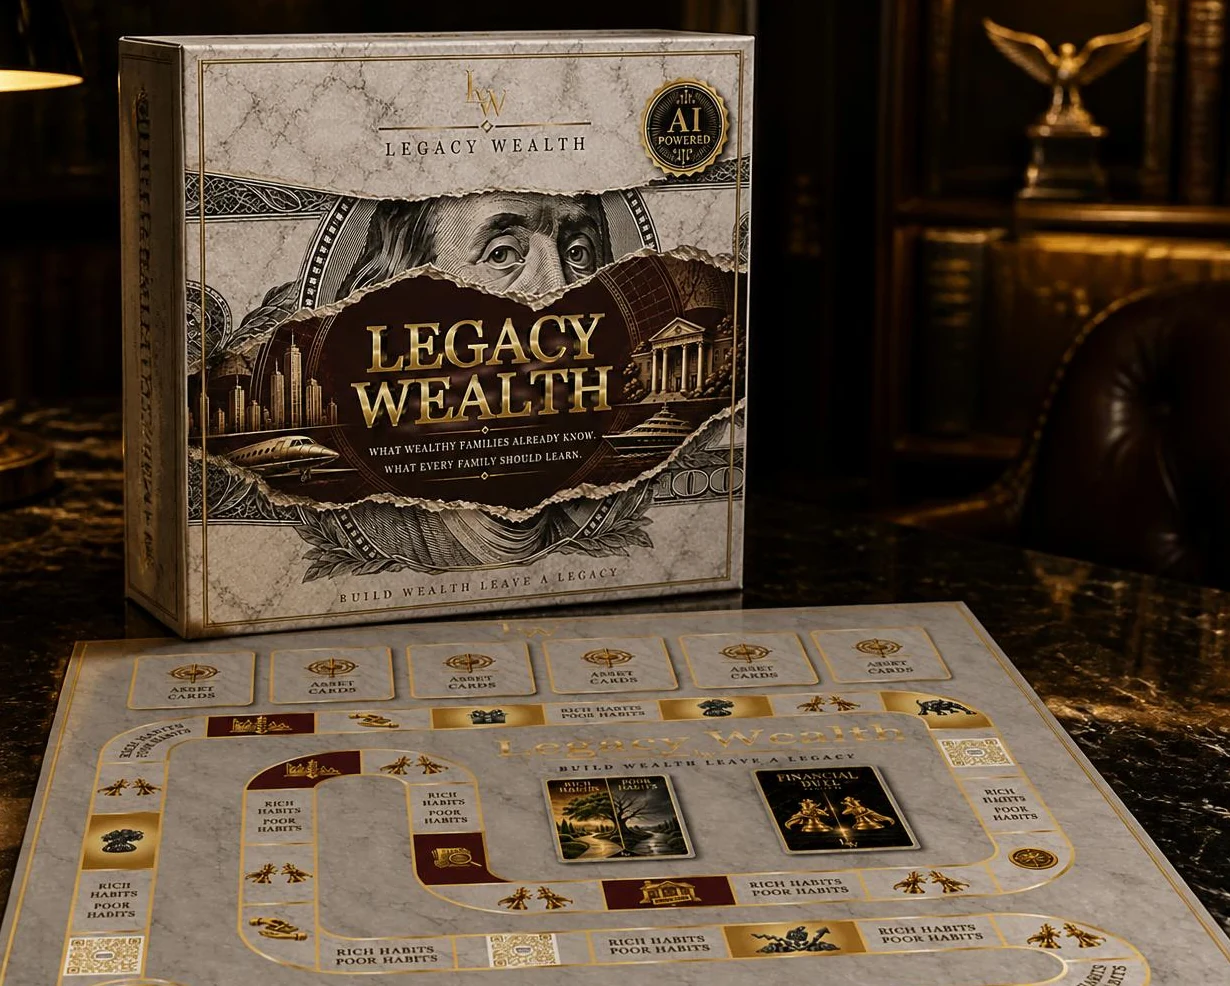
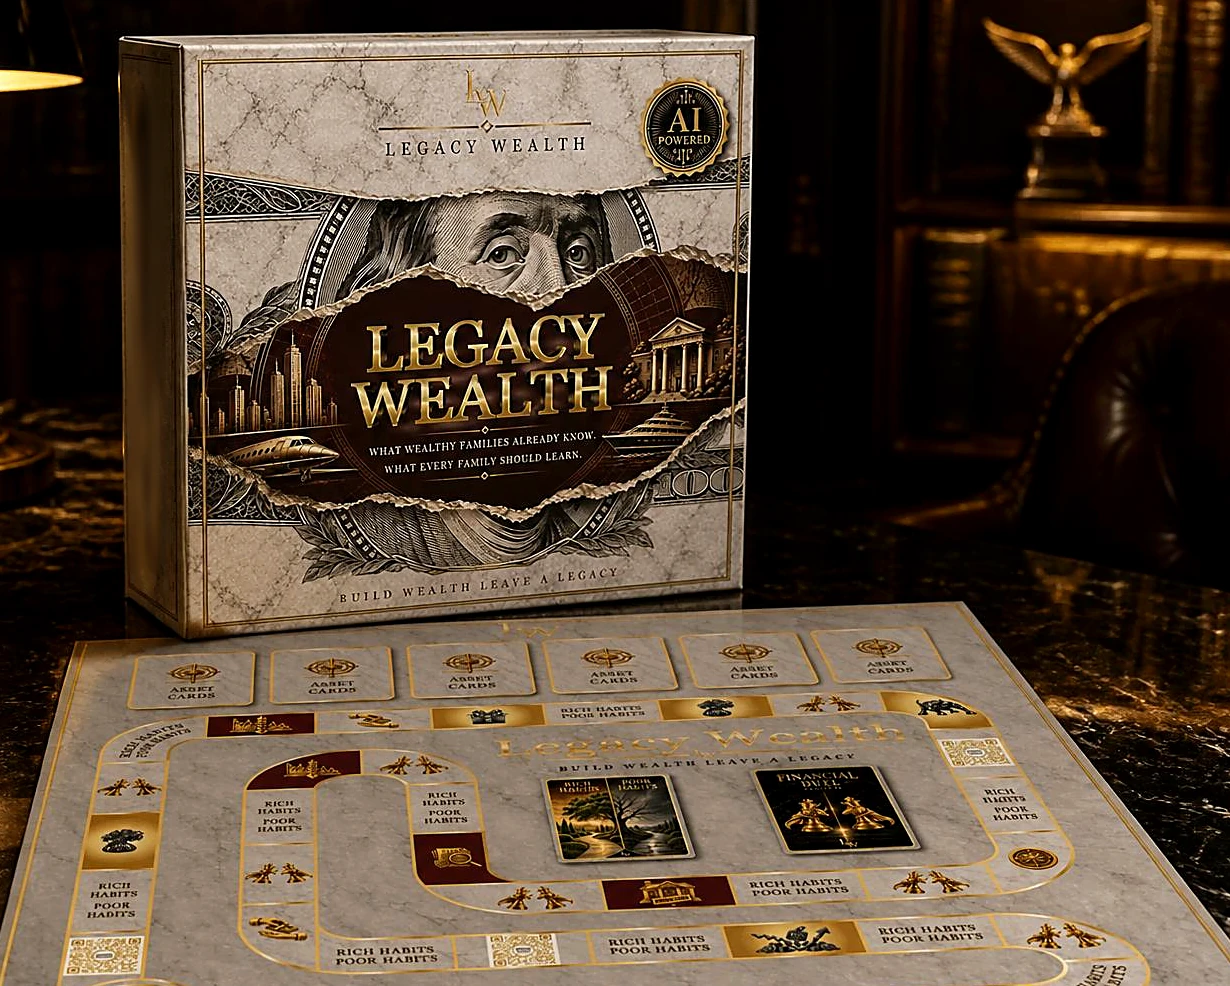
Touch up the hero shot
One real flaw in the render: the box spine carried garbled pseudo-lettering
where the model guessed at text wrapping round the edge. Close up it was
plainly nonsense, and it is the kind of detail that breaks the illusion for
anyone who looks. It is now smeared into plain shadow by squashing that
strip to a fraction of its height and stretching it back, which runs the
letterforms together rather than leaving them as separate blobs, then
feathered in so the patch does not show as a rectangle. The gold rule down
the edge survives, so the spine still reads as printed.

Then a light grade: a little more gold, deeper blacks, a gentle vignette to
lift the box out of the frame, and local sharpening so the product is
crisper than the room behind it.

Kept in tools/retouch.py rather than applied by hand, so it can be re-run if
the shot is ever regenerated.

Claude-Session: https://claude.ai/code/session_014BbJfV6pVH9cuG696iWvXi

diff --git a/tools/retouch.py b/tools/retouch.py
@@ -1,0 +1,57 @@
+"""
+Touch-up pass on the generated hero shot.
+
+The render is good but has one tell: the box spine carries garbled
+pseudo-lettering where the model guessed at text wrapping round the edge.
+That gets smeared into plain shadow. Everything else is a light grade.
+
+Run: python3 tools/retouch.py
+"""
+from PIL import Image, ImageDraw, ImageFilter, ImageEnhance, ImageChops
+import os
+
+SRC = '/root/.claude/uploads/a296ac58-67ba-580e-a1ad-52d13f3833b1/c1c41d98-image.jpg'
+OUT = os.path.join(os.path.dirname(os.path.abspath(__file__)), '..', 'assets', 'images')
+PREV = '/tmp/claude-0/-home-user-leagcypitch/a296ac58-67ba-580e-a1ad-52d13f3833b1/scratchpad/'
+
+im = Image.open(SRC).convert('RGB')
+
+# ---------------------------------------------------------------- 1. the spine
+# Smear the fake lettering along the spine until it reads as a worn emboss.
+BOX = (276, 96, 316, 600)
+strip = im.crop(BOX)
+# a long vertical blur first, so letterforms run together rather than stay as
+# separate blobs, then a round blur to take the edge off
+strip = strip.resize((strip.width, max(1, strip.height // 26)), Image.LANCZOS)
+strip = strip.resize((BOX[2] - BOX[0], BOX[3] - BOX[1]), Image.LANCZOS)
+strip = strip.filter(ImageFilter.GaussianBlur(3))
+strip = ImageEnhance.Brightness(strip).enhance(0.94)
+
+# feather the patch so it does not show as a rectangle
+mask = Image.new('L', strip.size, 0)
+ImageDraw.Draw(mask).rectangle([3, 8, strip.width - 4, strip.height - 9], fill=255)
+mask = mask.filter(ImageFilter.GaussianBlur(4))
+im.paste(strip, BOX[:2], mask)
+
+# ---------------------------------------------------------------- 2. the grade
+im = ImageEnhance.Color(im).enhance(1.07)          # a little more gold
+im = ImageEnhance.Contrast(im).enhance(1.07)       # deeper blacks
+im = ImageEnhance.Brightness(im).enhance(1.02)
+
+# lift the box out of the frame with a gentle vignette
+W, H = im.size
+vig = Image.new('L', (W, H), 0)
+ImageDraw.Draw(vig).ellipse([-W * .18, -H * .26, W * 1.18, H * 1.22], fill=255)
+vig = vig.filter(ImageFilter.GaussianBlur(150))
+dark = Image.new('RGB', (W, H), (0, 0, 0))
+im = Image.composite(im, dark, vig.point(lambda v: int(60 + v * .76)))
+
+# a touch of local sharpening on the product, not the room
+im = im.filter(ImageFilter.UnsharpMask(radius=1.6, percent=42, threshold=4))
+
+im.save(os.path.join(OUT, 'hero-shot.webp'), 'WEBP', quality=90, method=6)
+im.crop((150, 18, 1380, 1004)).save(os.path.join(OUT, 'hero-shot-tall.webp'),
+                                    'WEBP', quality=90, method=6)
+im.save(PREV + 'retouched.png')
+im.crop((250, 20, 920, 640)).resize((1005, 930), Image.LANCZOS).save(PREV + 'retouched-box.png')
+print('retouched', im.size)
